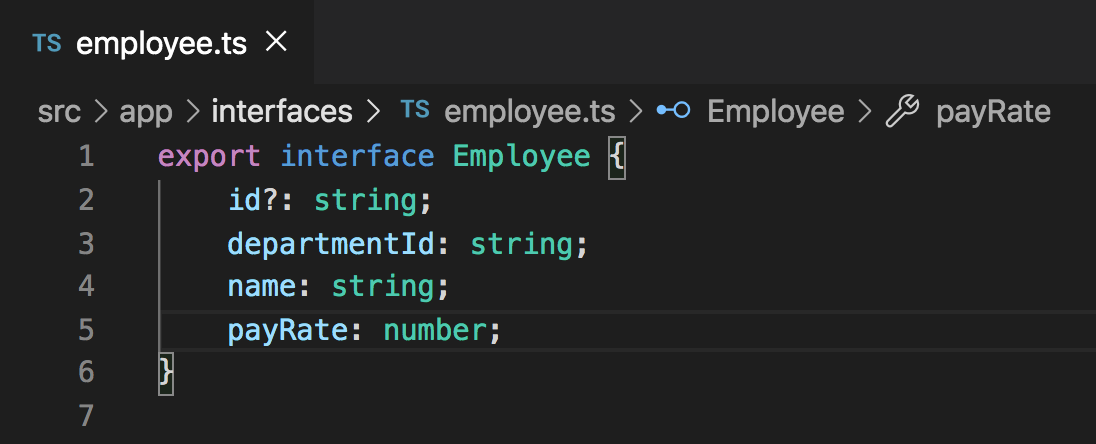
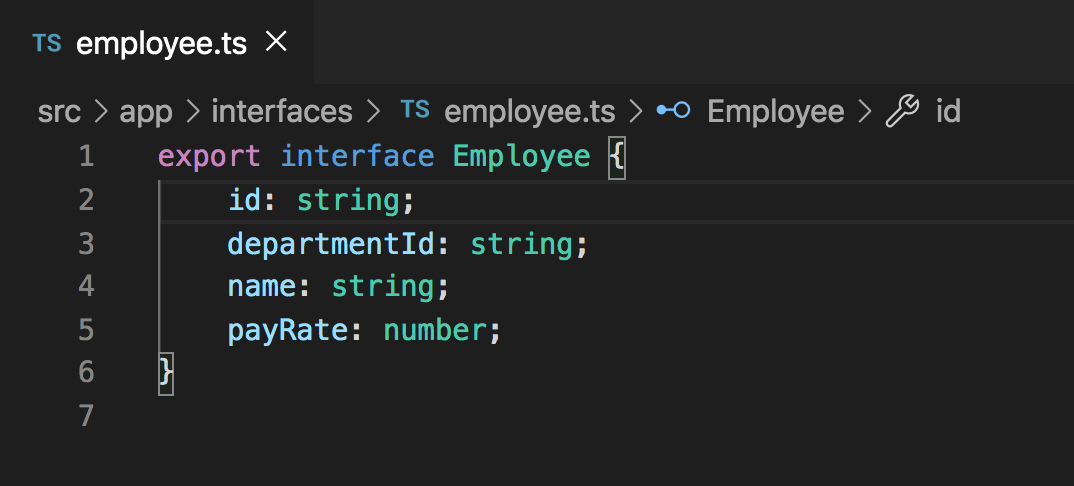
Added json pipe

diff --git a/unit-07/pt2-reactive-form-use.md b/unit-07/pt2-reactive-form-use.md
@@ -22,3 +22,61 @@ payRate: number;
 We will be adding more properties at a later time, but this is a good starting point.
 
 ![](img/employee_interface.png)
+
+Now that we have access to an `Employee` interface, let's create two variables in our `timesheet.component.ts` file.
+
+```
+employees: Employee[] = [];
+employeeId = 0;
+```
+
+![](img/employee_variable.png)
+
+Soon we will be adding a button to the UI, so that if the user enters an employee name, they can then click a button to submit a new employee. Let's first create the function that will be triggered when the user tries to submit an a new employee.
+
+Go to the `timesheet.component.ts` file and paste the following code below the `ngOnInit`.
+
+```
+addEmployee(): void {
+    if (this.employeeNameFC.value) {
+        this.employeeId++;
+
+        this.employees.push({
+            id: this.employeeId.toString(),
+            departmentId: this.department.id,
+            name: this.employeeNameFC.value,
+            payRate: Math.floor(Math.random() * 50) + 50,
+        });
+
+        this.employeeNameFC.setValue('');
+    }
+}
+```
+
+![](img/add_employee_function.png)
+
+In the `addEmployee()` function we are first checking to see if there is actually a value in the input before we do anything. If there's not, then don't do anything. If there is, then first increment the `this.employeeId` variable, this will used as the employees id. Then we are pushing an object with four properties: `id`, `departmentId`, `name`, and `payRate` (value between 50 and 100) to the `this.employees` array. Now that we have the functionality in our `timesheet.component.ts` file to add an employee, let's add some HTML to provide an element for the user to click.
+
+Paste the following code below the `mat-form-field` element in the `timesheet.component.html` file.
+
+```
+<button mat-mini-fab color="primary" (click)="addEmployee()">
+    <mat-icon>add</mat-icon>
+</button>
+```
+
+![](img/employee_button.png)
+
+Notice in the code and in the image above that the `button` element that we just added, has a `(click)` event on it. If we click the button the `(click)` event will trigger the `addEmployee()` function from our `timesheet.component.ts` file.
+
+As a temporary way to view the employee information that we are creating, add the following code directly below the `button` we just created in the `timesheet.component.html` file.
+
+`<div>{{employees | json}}</div>`
+
+![](img/json_pipe.png)
+
+We will go deeper into Angular Pipes in the future, but all this is doing is taking the `employees` variable and displaying it in `json` form using `|` (pipe).
+
+## Acceptance Test
+
+Start the application using `ng serve`. Select a department and add an employee. You should see data start to populate in the UI.
